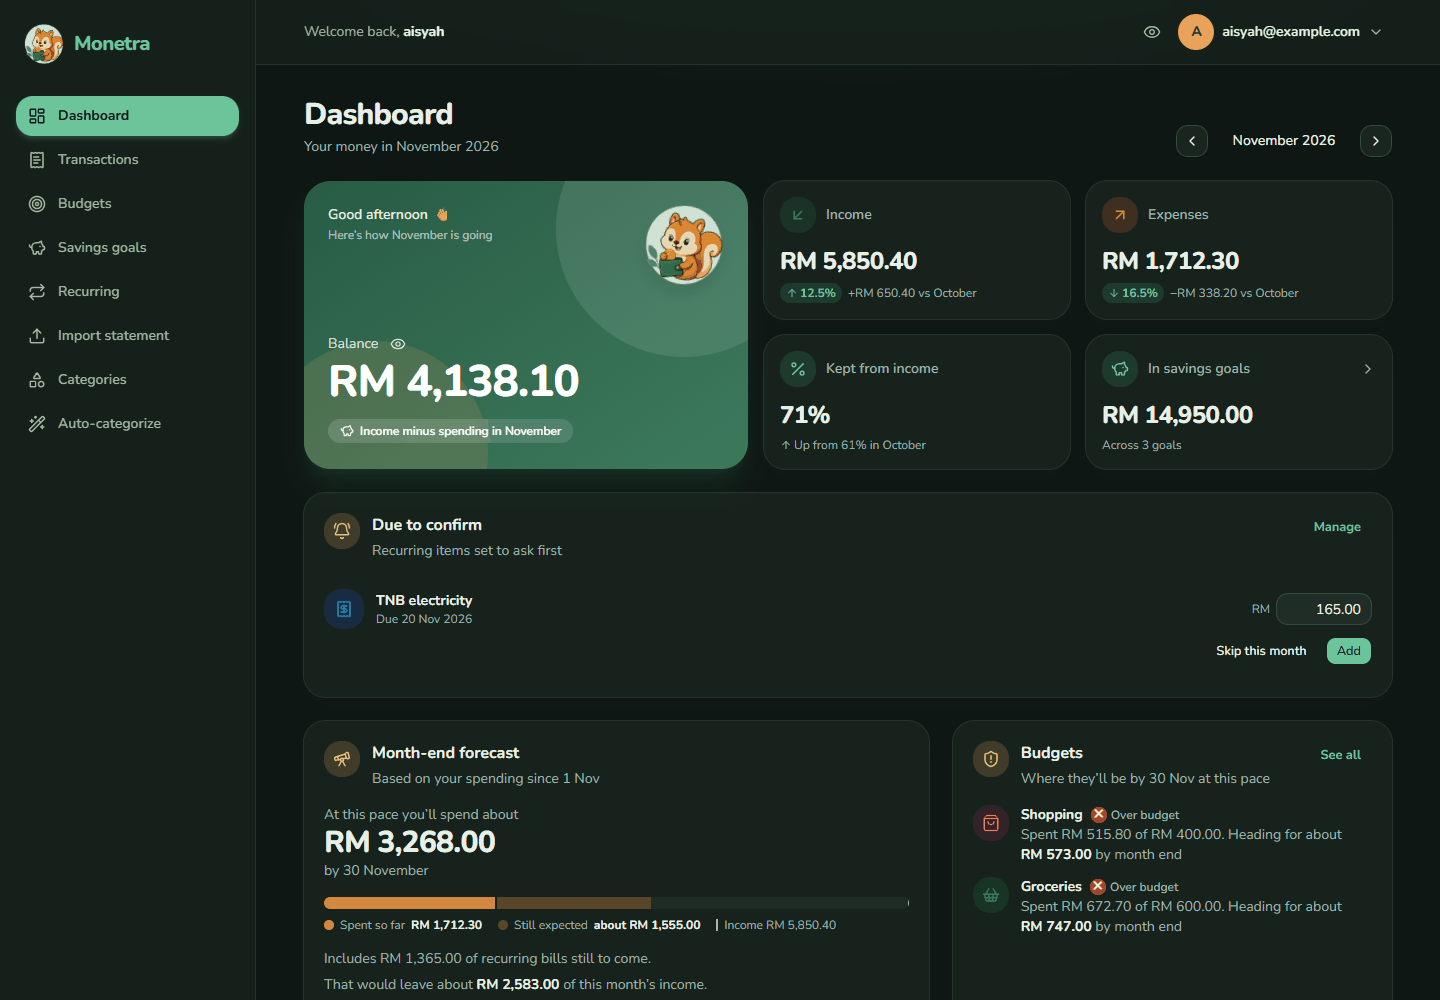
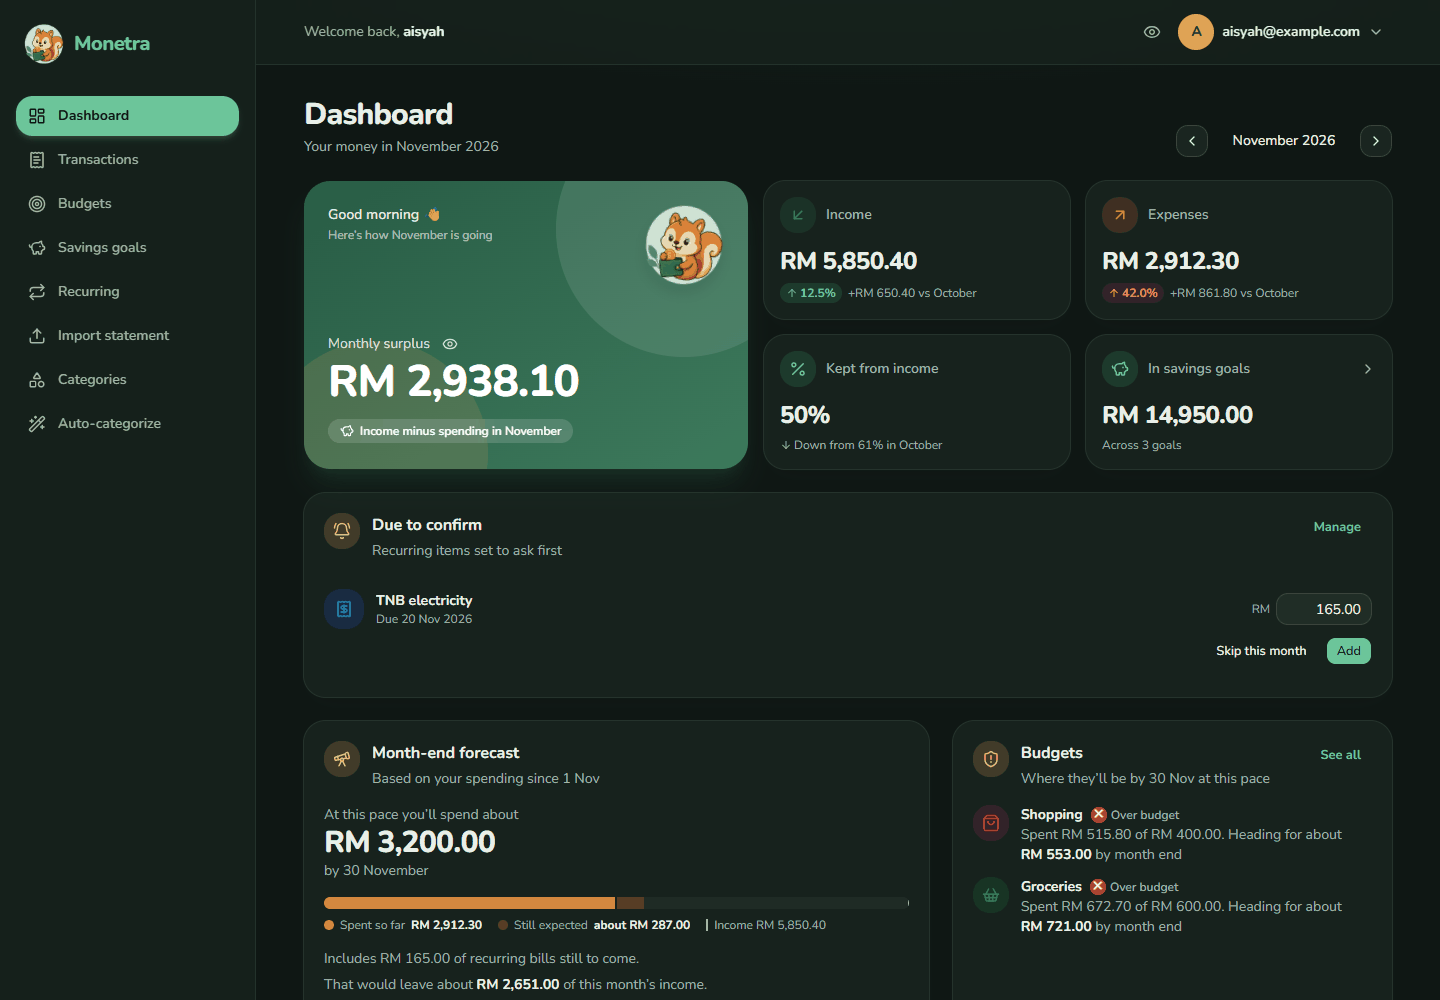
Call income minus spending "Monthly surplus", not "Balance"
"Balance" suggests money in the bank, but the figure is the month's
income minus spending. It is now "Monthly surplus", or "Monthly
shortfall" (shown without a minus) when spending is higher, on the
dashboard card and the Transactions tile. Search results across months
say just "Surplus" / "Shortfall". The 6-month table's last column is
"Surplus or shortfall".

Transactions tiles align their amounts to the bottom, so the longer
label wrapping on phones doesn't shift its amount. README wording and
dashboard screenshots updated.

diff --git a/src/components/DashboardHero.tsx b/src/components/DashboardHero.tsx
@@ -2,15 +2,15 @@ import { useState } from 'react'
 import { format } from 'date-fns'
 import { PiggyBank } from 'lucide-react'
 import monetraIcon from '../assets/monetra-icon.png'
-import { formatRM } from '../lib/format'
+import { formatRM, surplusLabel } from '../lib/format'
 import HideAmountsButton from './HideAmountsButton'
 
-// Green balance card: the month's balance as the headline number, with the mascot
-export default function DashboardHero({ month, balance, income }: { month: Date; balance: number; income: number }) {
+// Green card: the month's surplus (income minus spending) as the headline number, with the mascot
+export default function DashboardHero({ month, surplus, income }: { month: Date; surplus: number; income: number }) {
   // read the clock once, when the banner first appears
   const [hour] = useState(() => new Date().getHours())
   const greeting = hour < 12 ? 'Good morning' : hour < 18 ? 'Good afternoon' : 'Good evening'
-  const kept = income > 0 ? Math.round((balance / income) * 100) : null
+  const kept = income > 0 ? Math.round((surplus / income) * 100) : null
 
   return (
     <section className="relative flex h-full min-h-52 flex-col justify-between overflow-hidden rounded-3xl bg-gradient-to-br from-brand-forest to-brand-leaf p-6 text-white shadow-xl shadow-brand-forest/25">
@@ -28,17 +28,17 @@ export default function DashboardHero({ month, balance, income }: { month: Date;
 
       <div className="relative mt-4">
         <div className="flex items-center gap-1.5">
-          <p className="text-sm text-white/75">Balance</p>
+          <p className="text-sm text-white/75">{surplusLabel(surplus)}</p>
           <HideAmountsButton className="size-7 text-white/80 hover:bg-white/15 hover:text-white [&_svg]:size-4" />
         </div>
-        <p className="text-4xl font-extrabold tracking-tight sm:text-[2.75rem]">{formatRM(balance)}</p>
+        <p className="text-4xl font-extrabold tracking-tight sm:text-[2.75rem]">{formatRM(Math.abs(surplus))}</p>
         <p className="mt-3 inline-flex max-w-full items-center gap-1.5 rounded-full bg-white/15 px-3 py-1 text-xs font-semibold backdrop-blur-sm">
           <PiggyBank className="size-3.5 shrink-0" aria-hidden="true" />
           {kept === null
             ? 'No income recorded this month'
             : kept >= 0
               ? `Income minus spending in ${format(month, 'MMMM')}`
-              : `You’ve spent ${formatRM(-balance)} more than you earned`}
+              : `You’ve spent ${formatRM(-surplus)} more than you earned`}
         </p>
       </div>
     </section>

diff --git a/src/pages/Transactions.tsx b/src/pages/Transactions.tsx
@@ -20,7 +20,7 @@ import { useCategoryRules } from '../hooks/useCategoryRules'
 import { SEARCH_LIMIT, useTransactionSearch } from '../hooks/useTransactionSearch'
 import { useTransactions } from '../hooks/useTransactions'
 import { chartColors } from '../lib/chartTheme'
-import { formatRM } from '../lib/format'
+import { formatRM, surplusLabel } from '../lib/format'
 import type { TransactionInput, TransactionType } from '../lib/types'
 import { sumRM } from '../lib/money'
 import { friendlyError } from '../lib/errors'
@@ -86,6 +86,7 @@ export default function Transactions() {
 
   const income = sumRM(transactions.filter((t) => t.type === 'income').map((t) => t.amount))
   const expenses = sumRM(transactions.filter((t) => t.type === 'expense').map((t) => t.amount))
+  const surplus = sumRM([income, -expenses])
   const partial = searching && search.count > transactions.length
 
   async function handleAdd(input: TransactionInput) {
@@ -149,7 +150,7 @@ export default function Transactions() {
       <div className="grid grid-cols-3 gap-3 sm:gap-4">
         <Stat label="Income" value={formatRM(income)} icon={ArrowDownLeft} color={chartColors.income} />
         <Stat label="Expenses" value={formatRM(expenses)} icon={ArrowUpRight} color={chartColors.expenses} />
-        <Stat label="Balance" value={formatRM(income - expenses)} icon={Wallet} />
+        <Stat label={surplusLabel(surplus, { monthly: !searching })} value={formatRM(Math.abs(surplus))} icon={Wallet} />
       </div>
       {searching && (
         <p className="-mt-3 text-xs text-muted-foreground">
@@ -303,7 +304,7 @@ export default function Transactions() {
 // Compact tile so three fit side by side on a phone; the icon carries the colour, the value stays in text ink
 function Stat({ label, value, icon: Icon, color }: { label: string; value: string; icon: LucideIcon; color?: string }) {
   return (
-    <Card size="sm" className="gap-2 px-3 sm:px-4">
+    <Card size="sm" className="justify-between gap-2 px-3 sm:px-4">
       <p className="flex items-center gap-2 text-xs font-semibold text-muted-foreground sm:text-sm">
         <span
           className="flex size-6 shrink-0 items-center justify-center rounded-lg bg-secondary text-primary sm:size-8"

diff --git a/src/pages/Dashboard.tsx b/src/pages/Dashboard.tsx
@@ -44,7 +44,7 @@ import { formatRM } from '../lib/format'
 import { sumRM } from '../lib/money'
 
 // The chart library is the heaviest part of the dashboard, so the charts load just after
-// the page appears (balance and tiles show first)
+// the page appears (the surplus and tiles show first)
 const DailySpendingChart = lazy(() => import('../components/charts/DailySpendingChart'))
 const MonthlyTrendChart = lazy(() => import('../components/charts/MonthlyTrendChart'))
 const chartPlaceholder = <div className="h-56 animate-pulse rounded-xl bg-muted/60" aria-hidden="true" />
@@ -63,12 +63,12 @@ export default function Dashboard() {
 
   const income = sumRM(transactions.filter((t) => t.type === 'income').map((t) => t.amount))
   const expenses = sumRM(transactions.filter((t) => t.type === 'expense').map((t) => t.amount))
-  const balance = sumRM([income, -expenses])
+  const surplus = sumRM([income, -expenses])
   const previous = totals.at(-2)
   const previousName = format(addMonths(month, -1), 'MMMM')
   const monthName = format(month, 'MMMM yyyy')
 
-  const rate = income > 0 ? Math.round((balance / income) * 100) : null
+  const rate = income > 0 ? Math.round((surplus / income) * 100) : null
   const previousRate = previous && previous.income > 0 ? Math.round(((previous.income - previous.expenses) / previous.income) * 100) : null
   const goalsSaved = sumRM(goals.map((g) => g.current_amount))
   const empty = !loading && transactions.length === 0
@@ -83,10 +83,10 @@ export default function Dashboard() {
 
       {error && <ErrorAlert message={error} />}
 
-      {/* Balance card + four stat tiles */}
+      {/* Surplus card + four stat tiles */}
       <div className="grid grid-cols-1 gap-4 lg:grid-cols-12">
         <div className="lg:col-span-5">
-          <DashboardHero month={month} balance={balance} income={income} />
+          <DashboardHero month={month} surplus={surplus} income={income} />
         </div>
         <div className="grid grid-cols-2 gap-3 sm:gap-4 lg:col-span-7">
           <StatTile

diff --git a/src/components/charts/MonthlyTrendChart.tsx b/src/components/charts/MonthlyTrendChart.tsx
@@ -2,6 +2,7 @@ import { Bar, BarChart, CartesianGrid, ResponsiveContainer, Tooltip, XAxis, YAxi
 import { format, parseISO } from 'date-fns'
 import { axisTick, chartColors, hoverCursor, yAxisProps } from '../../lib/chartTheme'
 import { formatRM } from '../../lib/format'
+import { sumRM } from '../../lib/money'
 import { useAmountsHidden } from '../../lib/privacy'
 import { useTheme } from '../../lib/theme'
 import type { MonthTotal } from '../../hooks/useMonthlyTotals'
@@ -54,8 +55,11 @@ export default function MonthlyTrendChart({ totals }: { totals: MonthTotal[] }) 
         </ResponsiveContainer>
       </div>
       <TableView
-        headers={['Month', 'Income', 'Expenses', 'Balance']}
-        rows={data.map((r) => [r.long, formatRM(r.income), formatRM(r.expenses), formatRM(r.income - r.expenses)])}
+        headers={['Month', 'Income', 'Expenses', 'Surplus or shortfall']}
+        rows={data.map((r) => {
+          const net = sumRM([r.income, -r.expenses])
+          return [r.long, formatRM(r.income), formatRM(r.expenses), net < 0 ? `${formatRM(-net)} short` : formatRM(net)]
+        })}
       />
     </>
   )

diff --git a/src/lib/format.ts b/src/lib/format.ts
@@ -10,5 +10,10 @@ export const formatRM = (amount: number) => (amountsHidden() ? HIDDEN_RM : rm.fo
 
 const compact = new Intl.NumberFormat('en-MY', { notation: 'compact', maximumFractionDigits: 1 })
 
+// Income minus spending. It isn't money in the bank, so it's never called a balance:
+// "Monthly surplus" when you kept some, "Monthly shortfall" (shown without a minus) when you spent more
+export const surplusLabel = (net: number, { monthly = true } = {}) =>
+  net < 0 ? (monthly ? 'Monthly shortfall' : 'Shortfall') : monthly ? 'Monthly surplus' : 'Surplus'
+
 // For chart axes: formatRMCompact(1500) -> "RM1.5K" (or "RM ••••" when amounts are hidden)
 export const formatRMCompact = (amount: number) => (amountsHidden() ? HIDDEN_RM : `RM${compact.format(amount)}`)

diff --git a/README.md b/README.md
@@ -14,7 +14,7 @@
 </p>
 
 <p align="center">
-  <img src="docs/screenshots/desktop-dashboard.png" alt="Monetra dashboard on desktop: balance card, stat tiles, month-end forecast, budget alerts and a recurring bill to confirm" width="900" />
+  <img src="docs/screenshots/desktop-dashboard.png" alt="Monetra dashboard on desktop: monthly surplus, stat tiles, month-end forecast, budget alerts and a recurring bill to confirm" width="900" />
 </p>
 
 ## Screenshots
@@ -42,7 +42,7 @@ Monetra works on desktop and phone. On a phone it installs to the Home Screen, o
 ## Features
 
 ### Tracking
-- **Dashboard**: the month's balance, income and expenses compared with last month, how much of your income you kept, the month-end forecast, budgets that are heading over, recent transactions and spending by category (tap a category to see its transactions). The 6-month trend, daily spending and goals are one tap away under **More insights**
+- **Dashboard**: the monthly surplus (income minus spending, or the shortfall when spending is higher), income and expenses compared with last month, how much of your income you kept, the month-end forecast, budgets that are heading over, recent transactions and spending by category (tap a category to see its transactions). The 6-month trend, daily spending and goals are one tap away under **More insights**
 - **Transactions**: add, edit and delete income and expenses, grouped by day with category icons. **Search** descriptions across every month, and filter by category, expense or income
 - **Import bank statements (CSV)**: works with Maybank, CIMB, Touch ’n Go eWallet and other exports. Monetra finds the columns, reads Malaysian dates and amounts (`1,234.50`, `12.00-`, `CR`/`DR`), and lets you review everything before saving. Importing the same file twice never creates duplicates
 - **Recurring transactions**: salary, rent and bills are added every month automatically, or shown on the dashboard to confirm when the amount changes (like TNB). Missed months are caught up, and nothing is ever added twice
